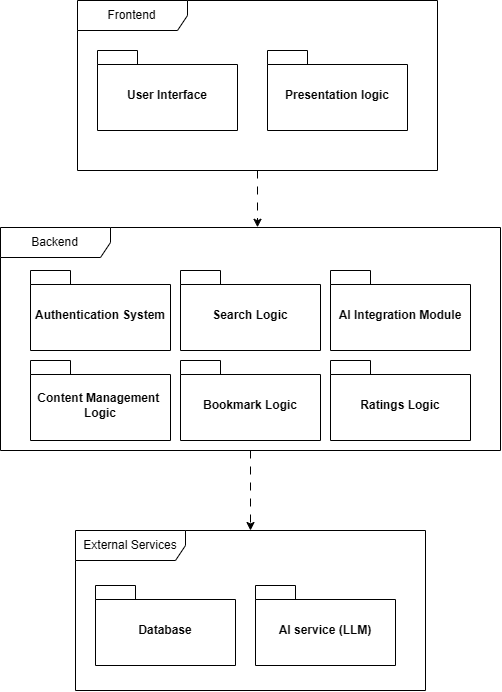
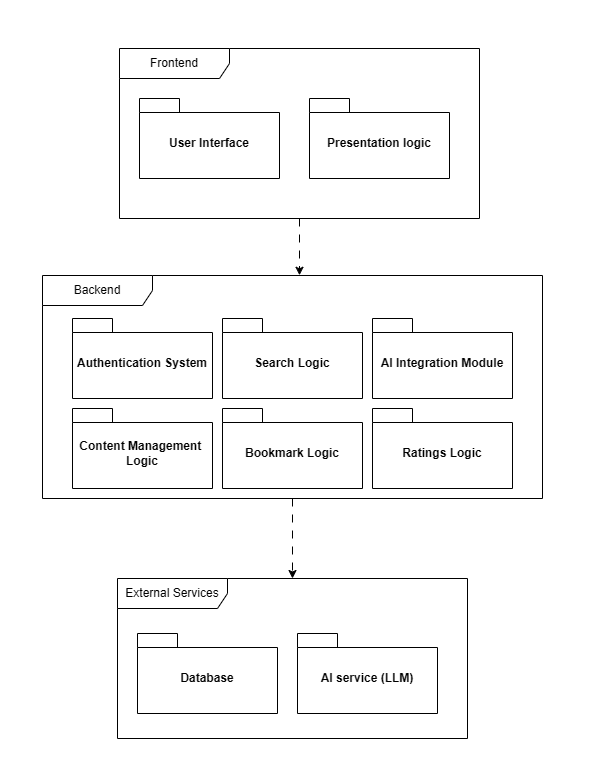
Better screenshots of UMLs and a better .gif to demonstrate the prototype 0

diff --git a/README.md b/README.md
@@ -136,7 +136,7 @@ Example:
 </p>
 -->
  <p align="center" justify="center">
-  <img src="https://github.com/LEIC-ES-2025-26-2LEIC13/T2/blob/main/misc/UMLs/DomainUML.png"/>
+  <img src="./misc/UMLs/DomainUML.png"/>
 </p>
 
 ### Validation from our target users
@@ -171,7 +171,7 @@ Example of _UML package diagram_ showing a _logical view_ of the Eletronic Ticke
 -->
 
  <p align="center" justify="center">
-  <img src="https://github.com/LEIC-ES-2025-26-2LEIC13/T2/blob/main/misc/UMLs/logicalUML.png"/>
+  <img src="./misc/UMLs/logicalUML.png"/>
 </p>
 
 ### Physical architecture
@@ -185,7 +185,7 @@ Example of _UML deployment diagram_ showing a _deployment view_ of the Eletronic
 ![DeploymentView](https://user-images.githubusercontent.com/9655877/160592491-20e85af9-0758-4e1e-a704-0db1be3ee65d.png)
 -->
  <p align="center" justify="center">
-  <img src="https://github.com/LEIC-ES-2025-26-2LEIC13/T2/blob/main/misc/UMLs/physicalUML.png"/>
+  <img src="./misc/UMLs/physicalUML.png"/>
 </p>
 
 ### Functional prototype
@@ -196,10 +196,10 @@ In this subsection please describe which feature, or part of it, you have implem
 
 At this phase, instead of a complete user story, you can simply implement a small part of a feature that demonstrates thay you can use the technology, for example, show a screen with the app credits (name and authors).
 -->
-For Prototype 0, we implemented a basic navigation bar that allows users to switch between pages (Home, Exercises, Exams, and Upload). We also developed a simple Home page displaying available classes; selecting a class directs the user to a dedicated page containing all associated materials. Additionally, in the Exercises and Exams pages, we included a hardcoded example of a resource which, when selected, opens an external URL in a web browser.
+For Prototype 0, we implemented a basic navigation bar that allows users to switch between pages (Home, Exercises, Exams, and Upload). We also developed a simple Home page displaying available classes; selecting a class directs the user to a dedicated page containing all associated materials. Additionally, in the Exercises and Exams pages, we included a hardcoded example of a resource which, when selected, opens an external URL in a web browser. And finally, we implemented a basic and hardcoded forms to upload an exam.
 
 <p align="center" justify="center">
-  <img src="https://github.com/LEIC-ES-2025-26-2LEIC13/T2/blob/main/misc/demos/prototype0.gif"/>
+  <img src="./misc/demos/prototype0.gif"/>
 </p>
 
 ## Project management
@@ -225,6 +225,10 @@ You can find below information and references related with the project managemen
 -->
 
 ### Sprint 0
+
+<p align="center" justify="center">
+  <img src="./misc/sprints/sprint0.png"/>
+</p>
 
 ### Sprint 1
 